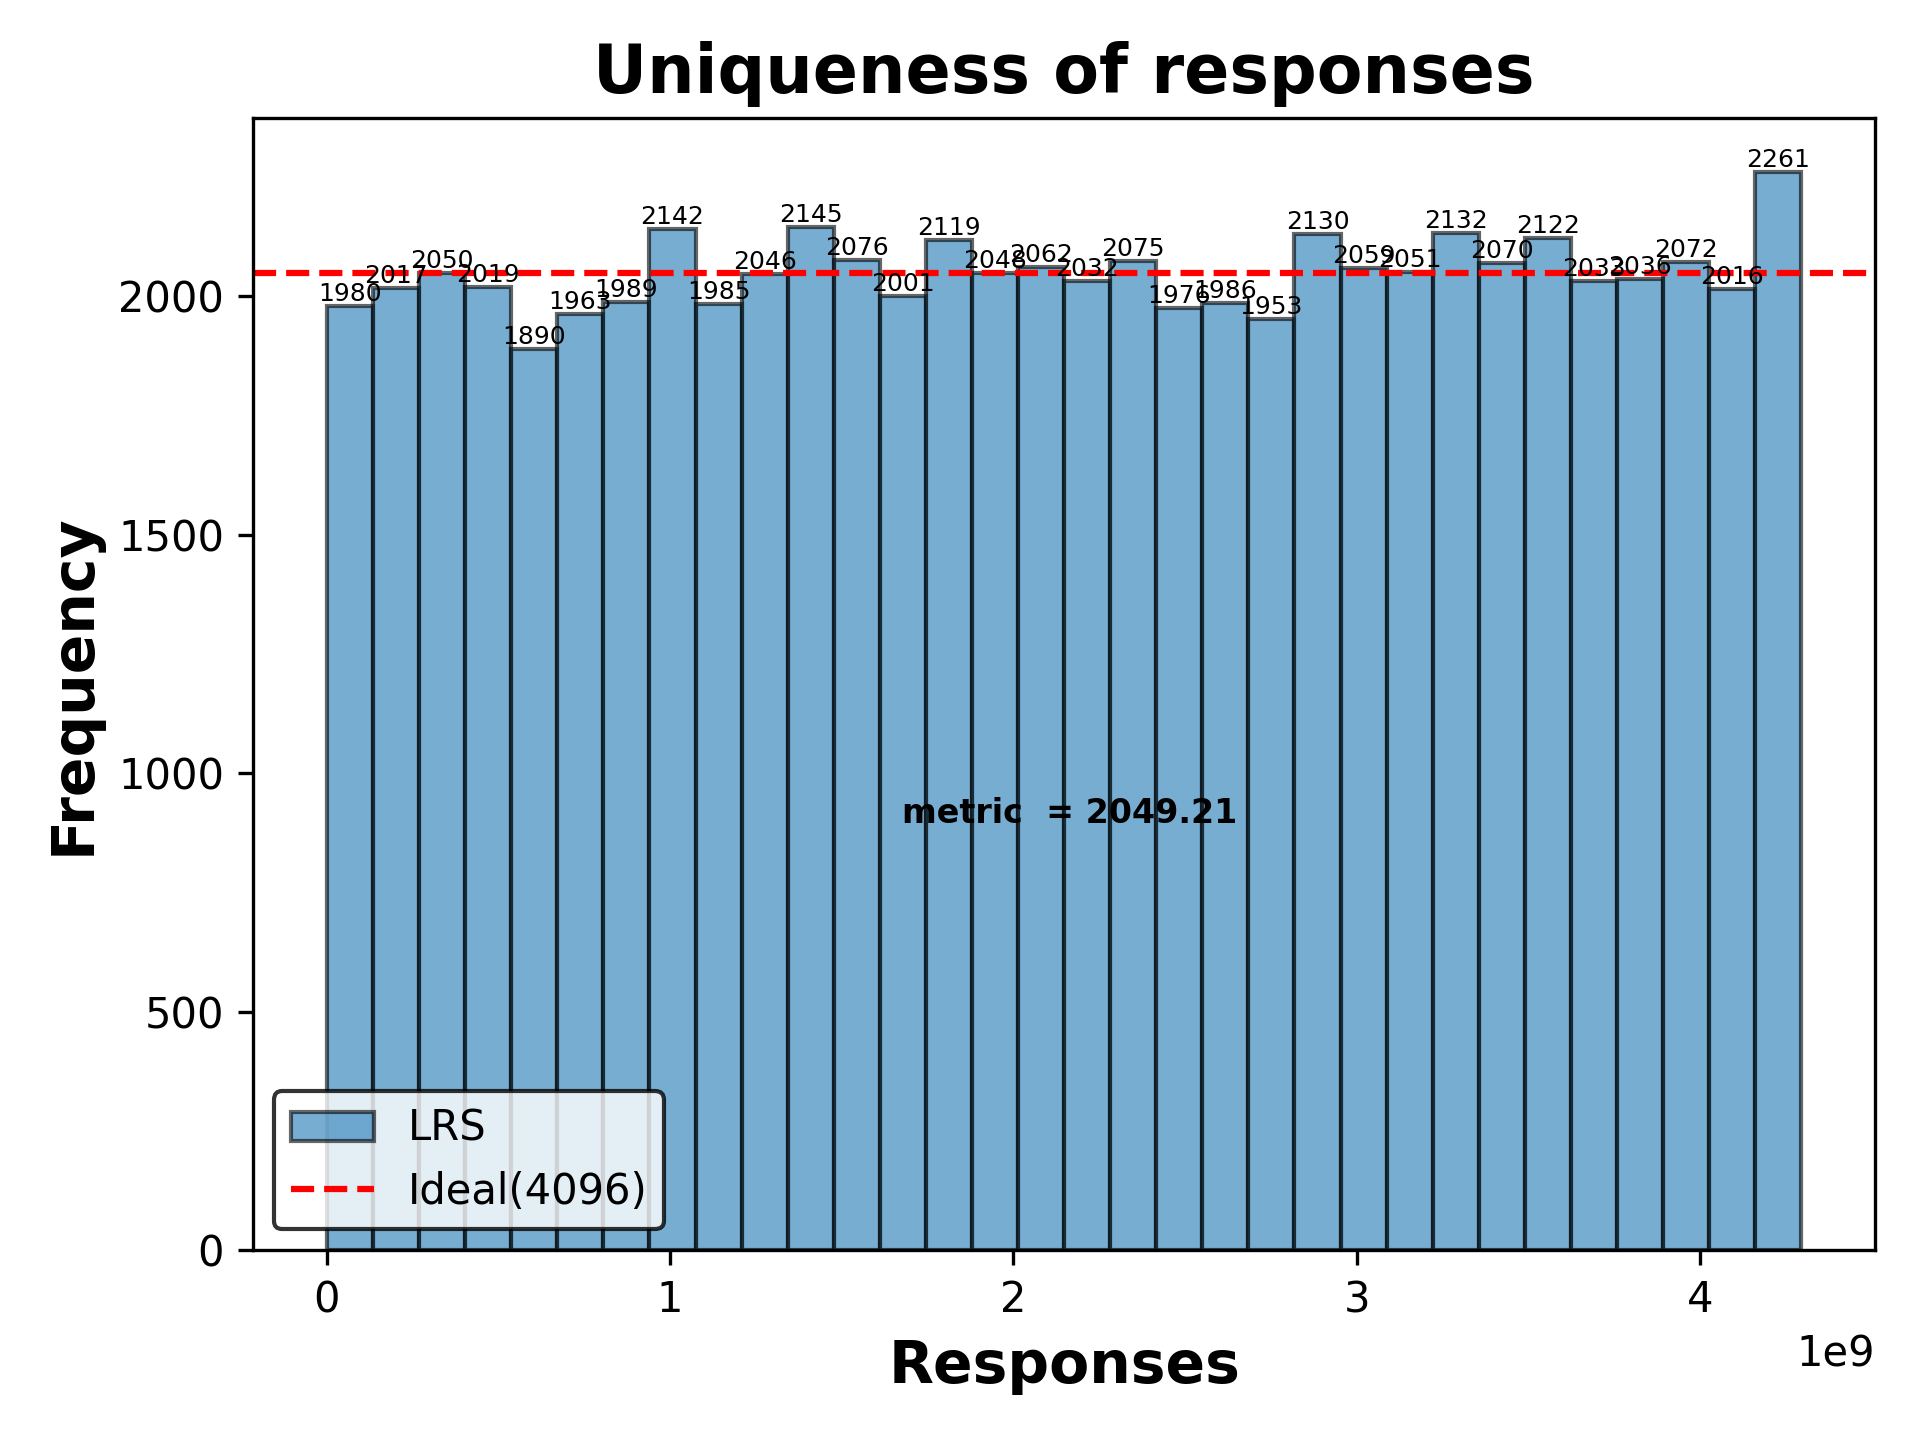
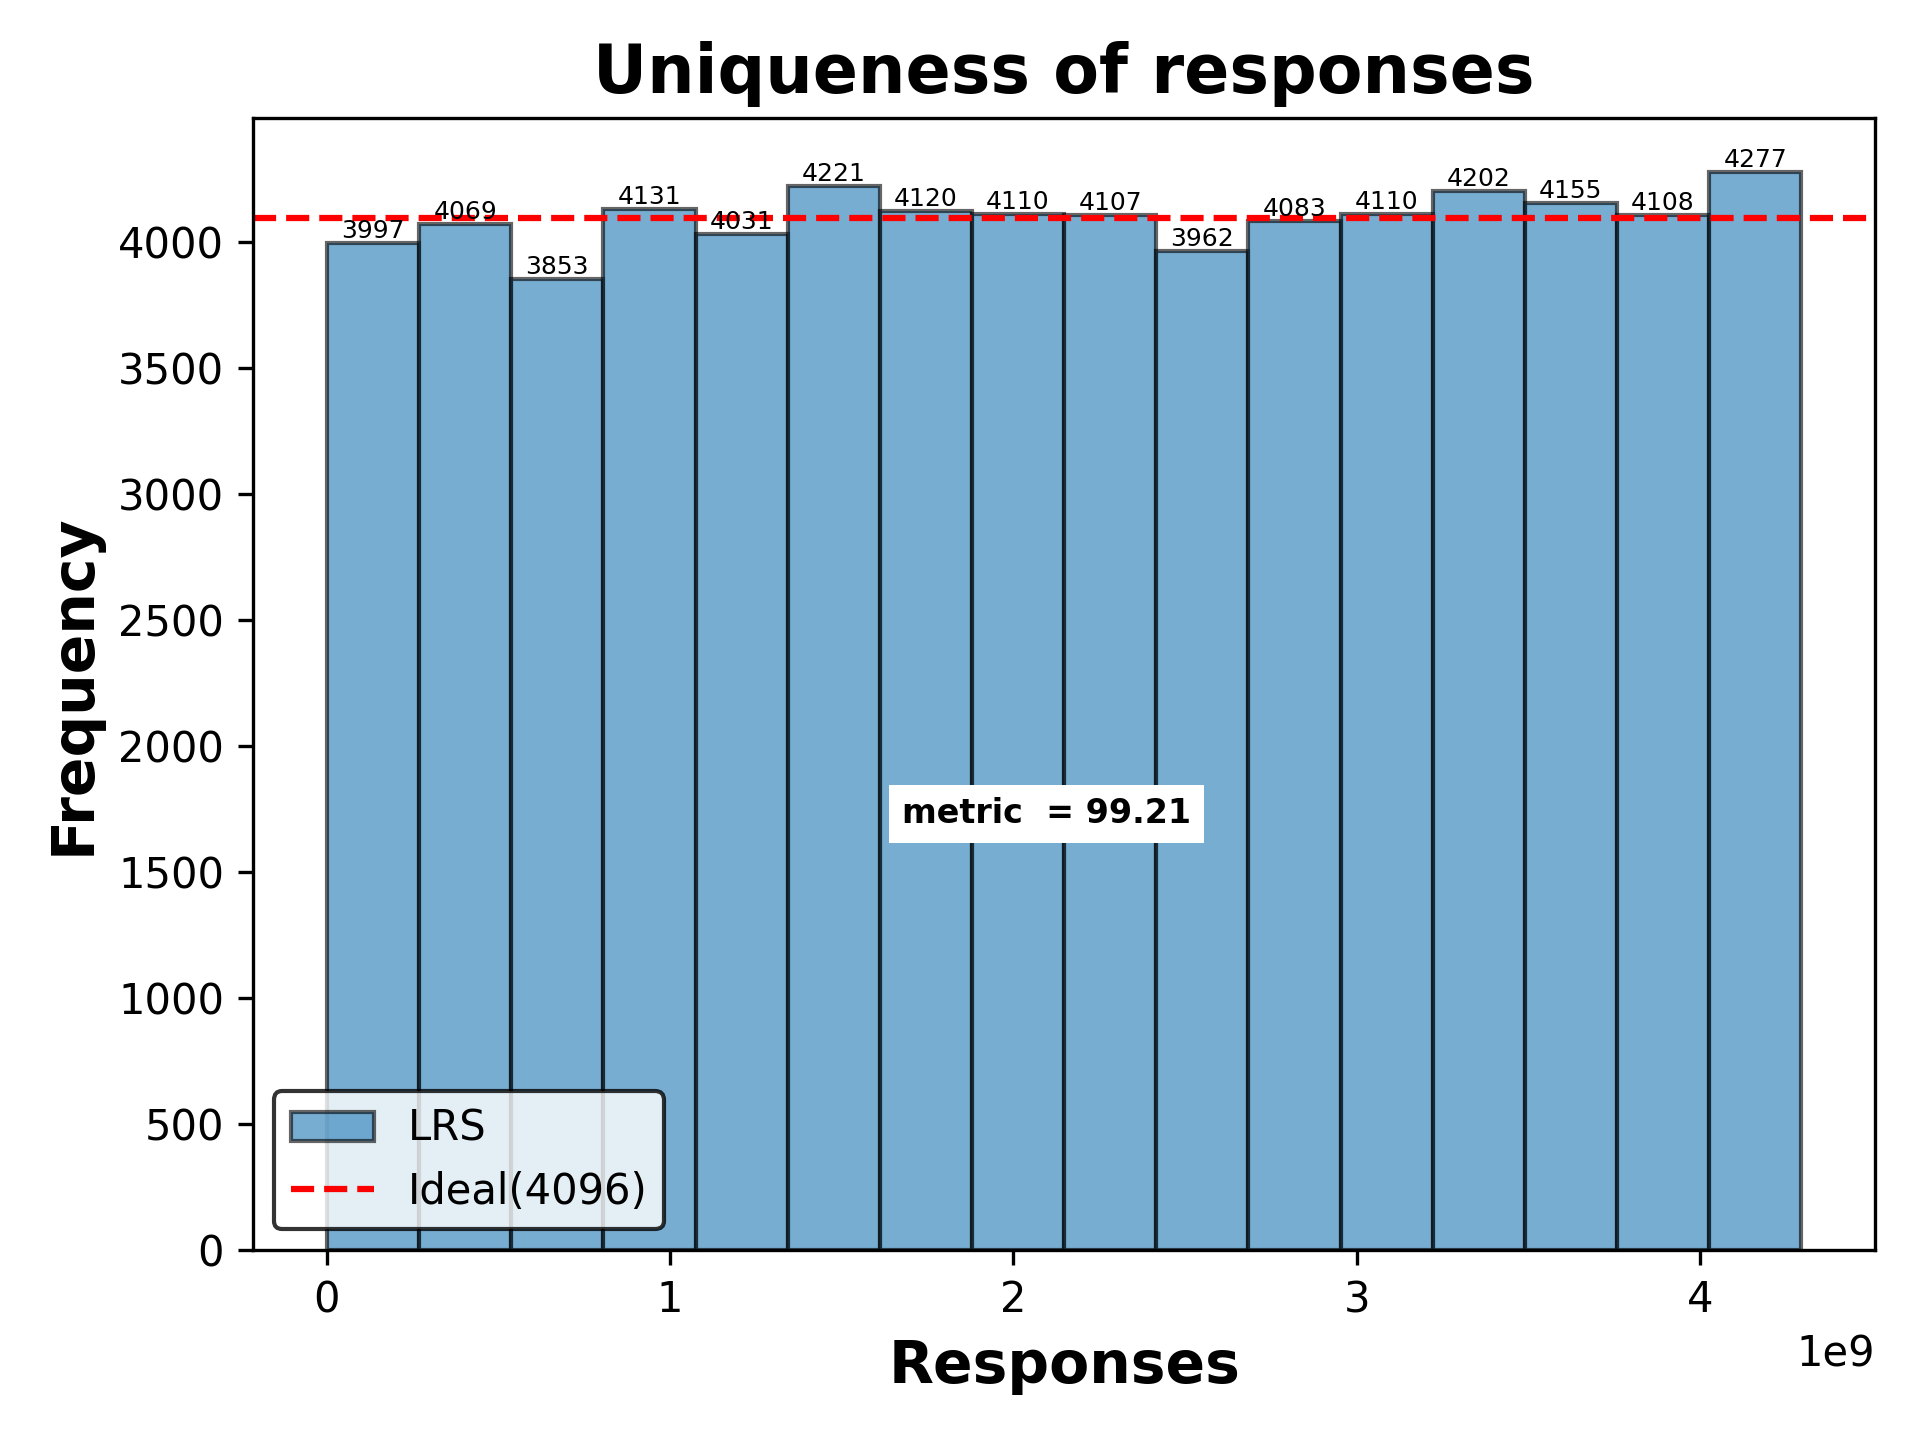
main

diff --git a/main_diff.py b/main_diff.py
@@ -64,9 +64,11 @@ def main_HRS(challenge_size):
     
     msq_error  = np.sqrt(np.sum((4096 - counts)**2)/len(counts))
     
+    
     plt.text(0.4, 0.4, f'metric  = {msq_error :.2f}', 
-             horizontalalignment='left', verticalalignment='top', 
-             transform=plt.gca().transAxes, fontsize=8, color='k',weight='bold')
+         horizontalalignment='left', verticalalignment='top', 
+         transform=plt.gca().transAxes, fontsize=8, color='k', weight='bold', 
+         bbox=dict(facecolor='white', edgecolor='none', pad=3))
      
     # Display the legend
     plt.legend(loc='lower left', facecolor='white', edgecolor='black', fontsize=10)
@@ -124,20 +126,24 @@ def main_LRS(challenge_size):
     
     # plt.hist(responses1,bins=16,edgecolor='k', alpha=0.7,label='LRS')
     
-    counts, bins, bars = plt.hist(responses1, bins=32, alpha=0.6, edgecolor='black',label='LRS')
-    plt.axhline(y=2048, color='r', linestyle='--', label='Ideal(4096)')
+    ideal = 4096
+    counts, bins, bars = plt.hist(responses1, bins=16, alpha=0.6, edgecolor='black',label='LRS')
+    plt.axhline(y=ideal, color='r', linestyle='--', label='Ideal(4096)')
     plt.title('Uniqueness of responses',fontweight='bold',fontsize=16 )
     plt.xlabel('Responses',fontweight='bold',fontsize=14)
     plt.ylabel('Frequency',fontweight='bold',fontsize=14)
     plt.bar_label(bars,fontsize=6)
     print(len(counts))
-    msq_error  = np.sqrt(np.sum((4096 - counts)**2)/len(counts))        #root mean square error (RMSE)
+    msq_error  = np.sqrt(np.sum((ideal - counts)**2)/len(counts))        #root mean square error (RMSE)
     std_dev = np.std(responses1)        # Standard Deviation
 
     
+
     plt.text(0.4, 0.4, f'metric  = {msq_error :.2f}', 
-             horizontalalignment='left', verticalalignment='top', 
-             transform=plt.gca().transAxes, fontsize=8, color='k',weight='bold')
+         horizontalalignment='left', verticalalignment='top', 
+         transform=plt.gca().transAxes, fontsize=8, color='k', weight='bold', 
+         bbox=dict(facecolor='white', edgecolor='none', pad=3))
+
      
     # Display the legend
     plt.legend(loc='lower left', facecolor='white', edgecolor='black', fontsize=10)
@@ -172,4 +178,4 @@ if __name__ == "__main__":
     challenge_size= 16
     
     main_LRS(challenge_size)
-    # main_HRS(challenge_size)
+    main_HRS(challenge_size)
